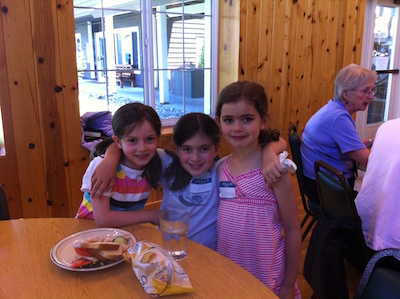
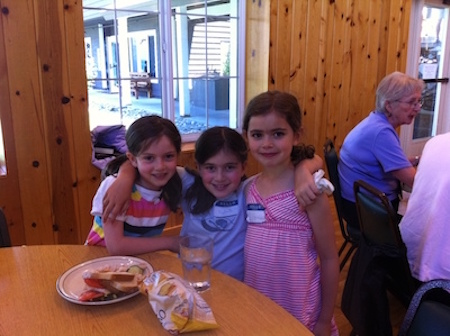
Updates made on Tue Jan 26 18:09:48 PST 2016

diff --git a/pages/support_us/support_us.html b/pages/support_us/support_us.html
@@ -111,7 +111,7 @@
     top: 30px;
   }
 </style>
-<p><img style="float: right; margin-right: 20px; margin-left: 20px; margin-bottom: 10px; " width="400px" src="../../images/cute_kids.jpg" />We are extremely grateful for the donations of money and support that we have received from individuals, corporations, small businesses and other organizations. The Villa Sinfonia Foundation uses these donations for need-based scholarships for lessons and group classes, Zephyr Music Camp tuition, and tour participation as well as for hiring professional staff in accordance with our mission statement:</p>
+<p><img style="float: right; margin-right: 20px; margin-left: 20px; margin-bottom: 10px; " width="400px" src="../../images/children.jpg" />We are extremely grateful for the donations of money and support that we have received from individuals, corporations, small businesses and other organizations. The Villa Sinfonia Foundation uses these donations for need-based scholarships for lessons and group classes, Zephyr Music Camp tuition, and tour participation as well as for hiring professional staff in accordance with our mission statement:</p>
 <p>The Villa Sinfonia Foundation is dedicated to developing string musicians of all ages and abilities, through the performance of chamber music and chamber orchestra music, assisted and coached by professional musicians.</p>
 <p><a href="../../images/fundraising_letter.pdf">A Word From A Villa Family</a></p>
 <div id="AmazonSmile">
